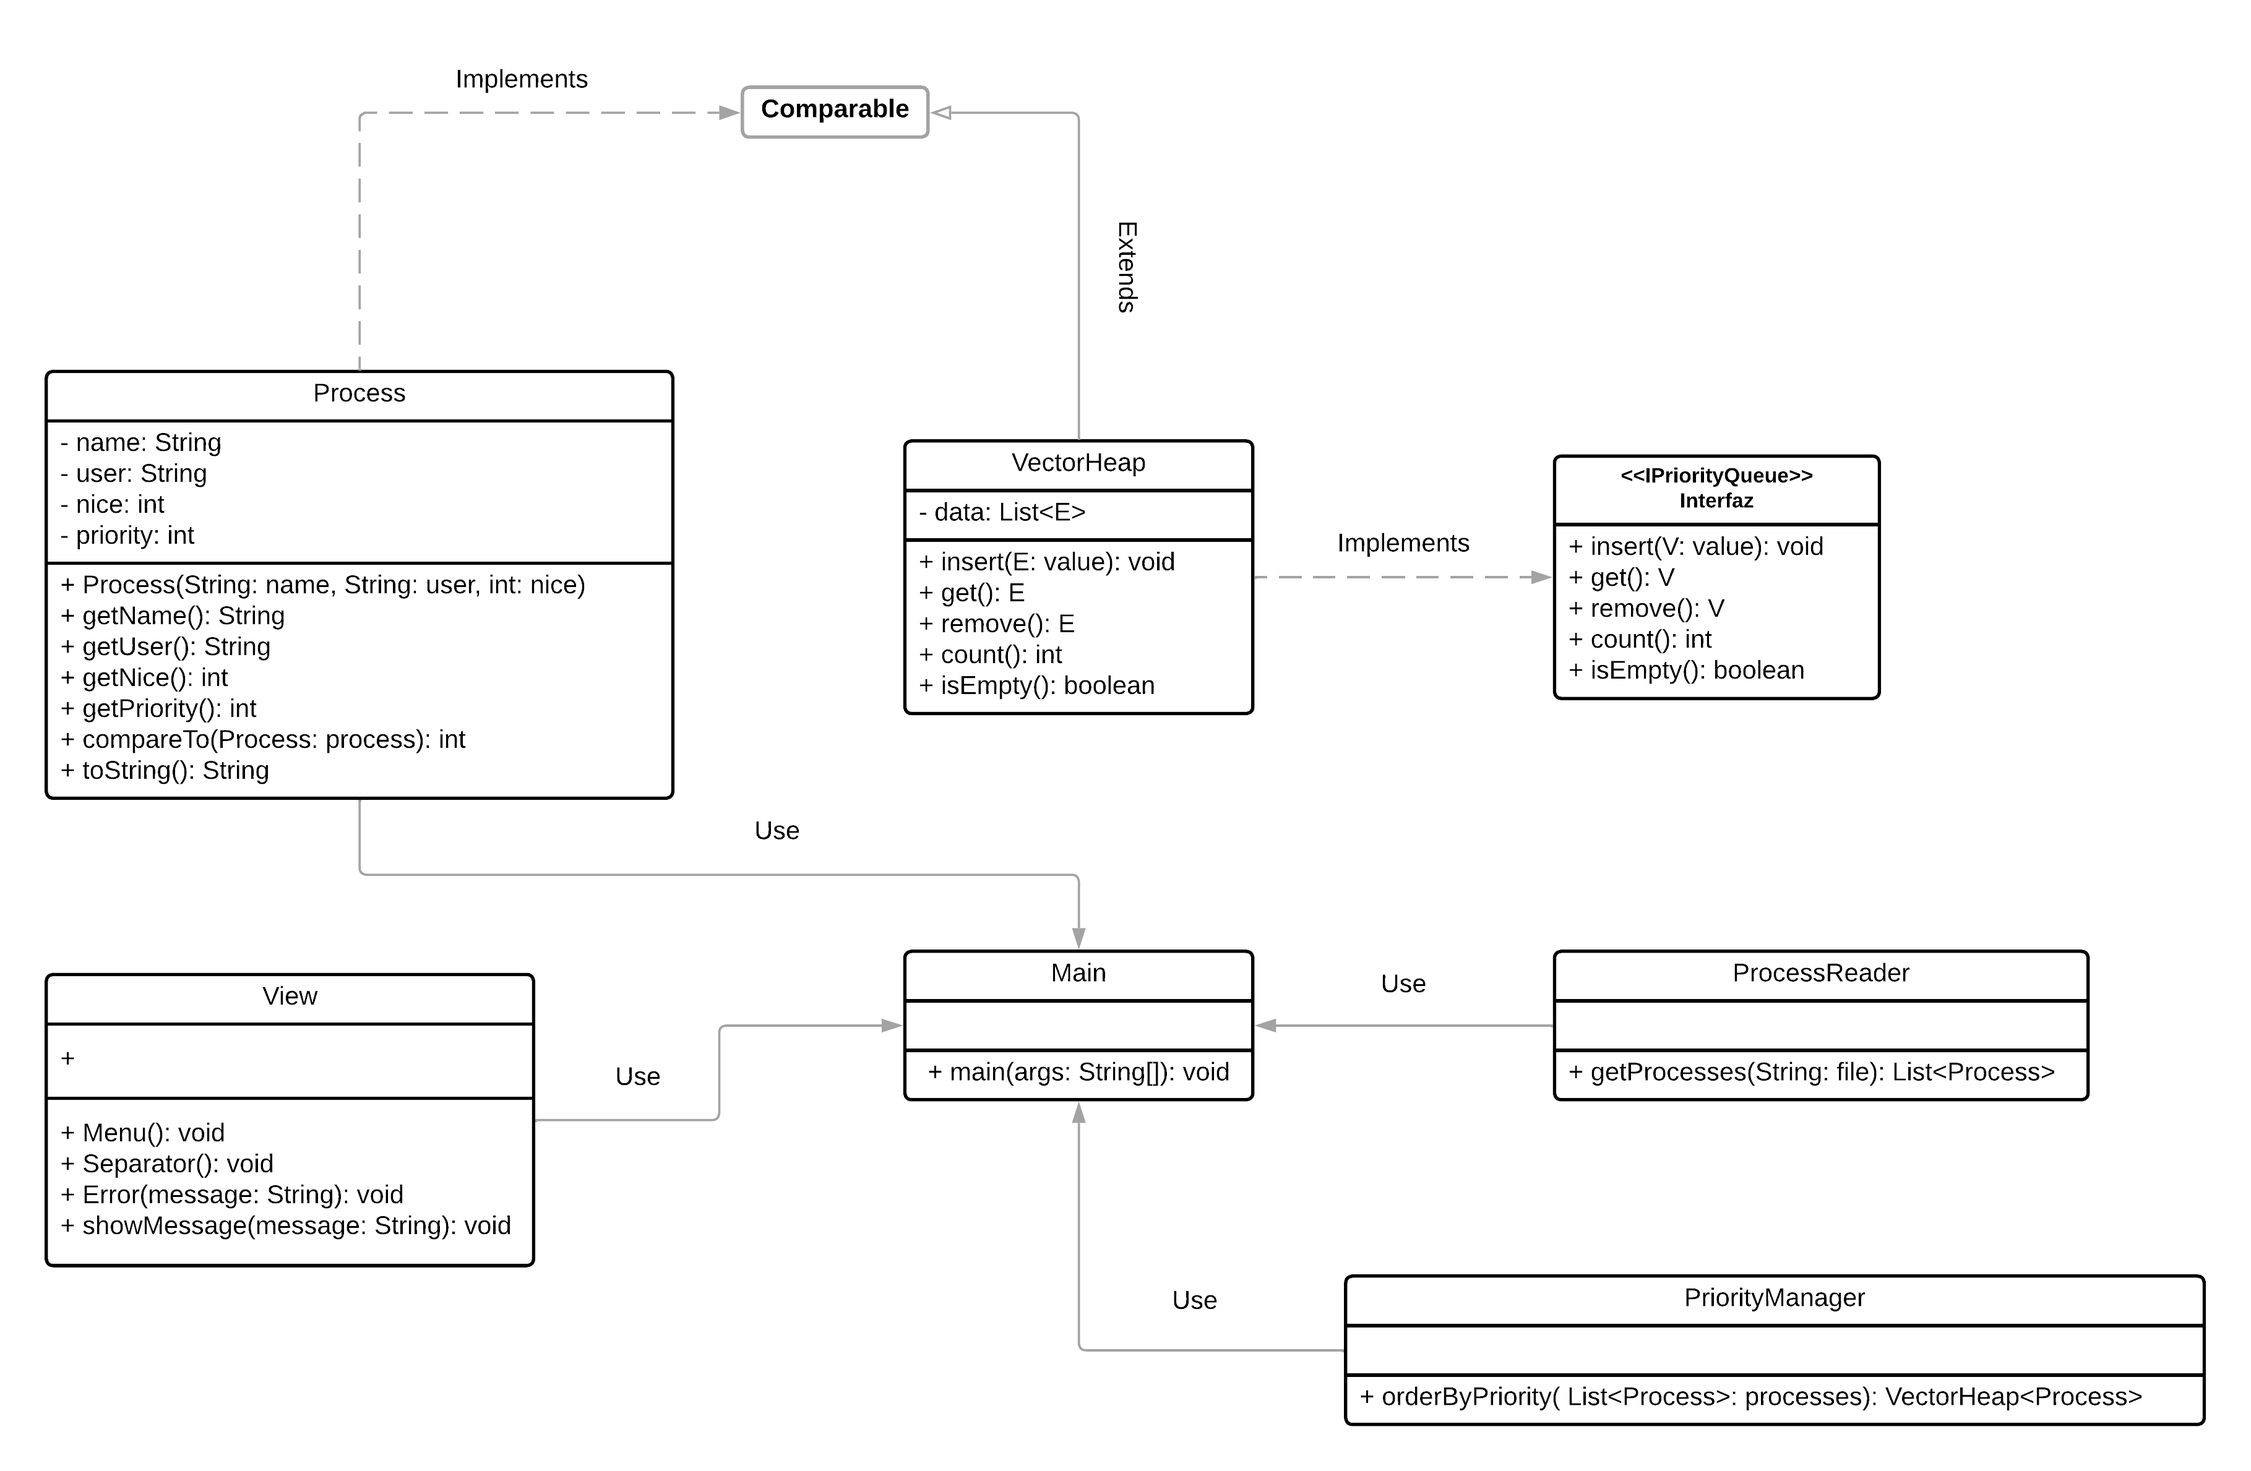
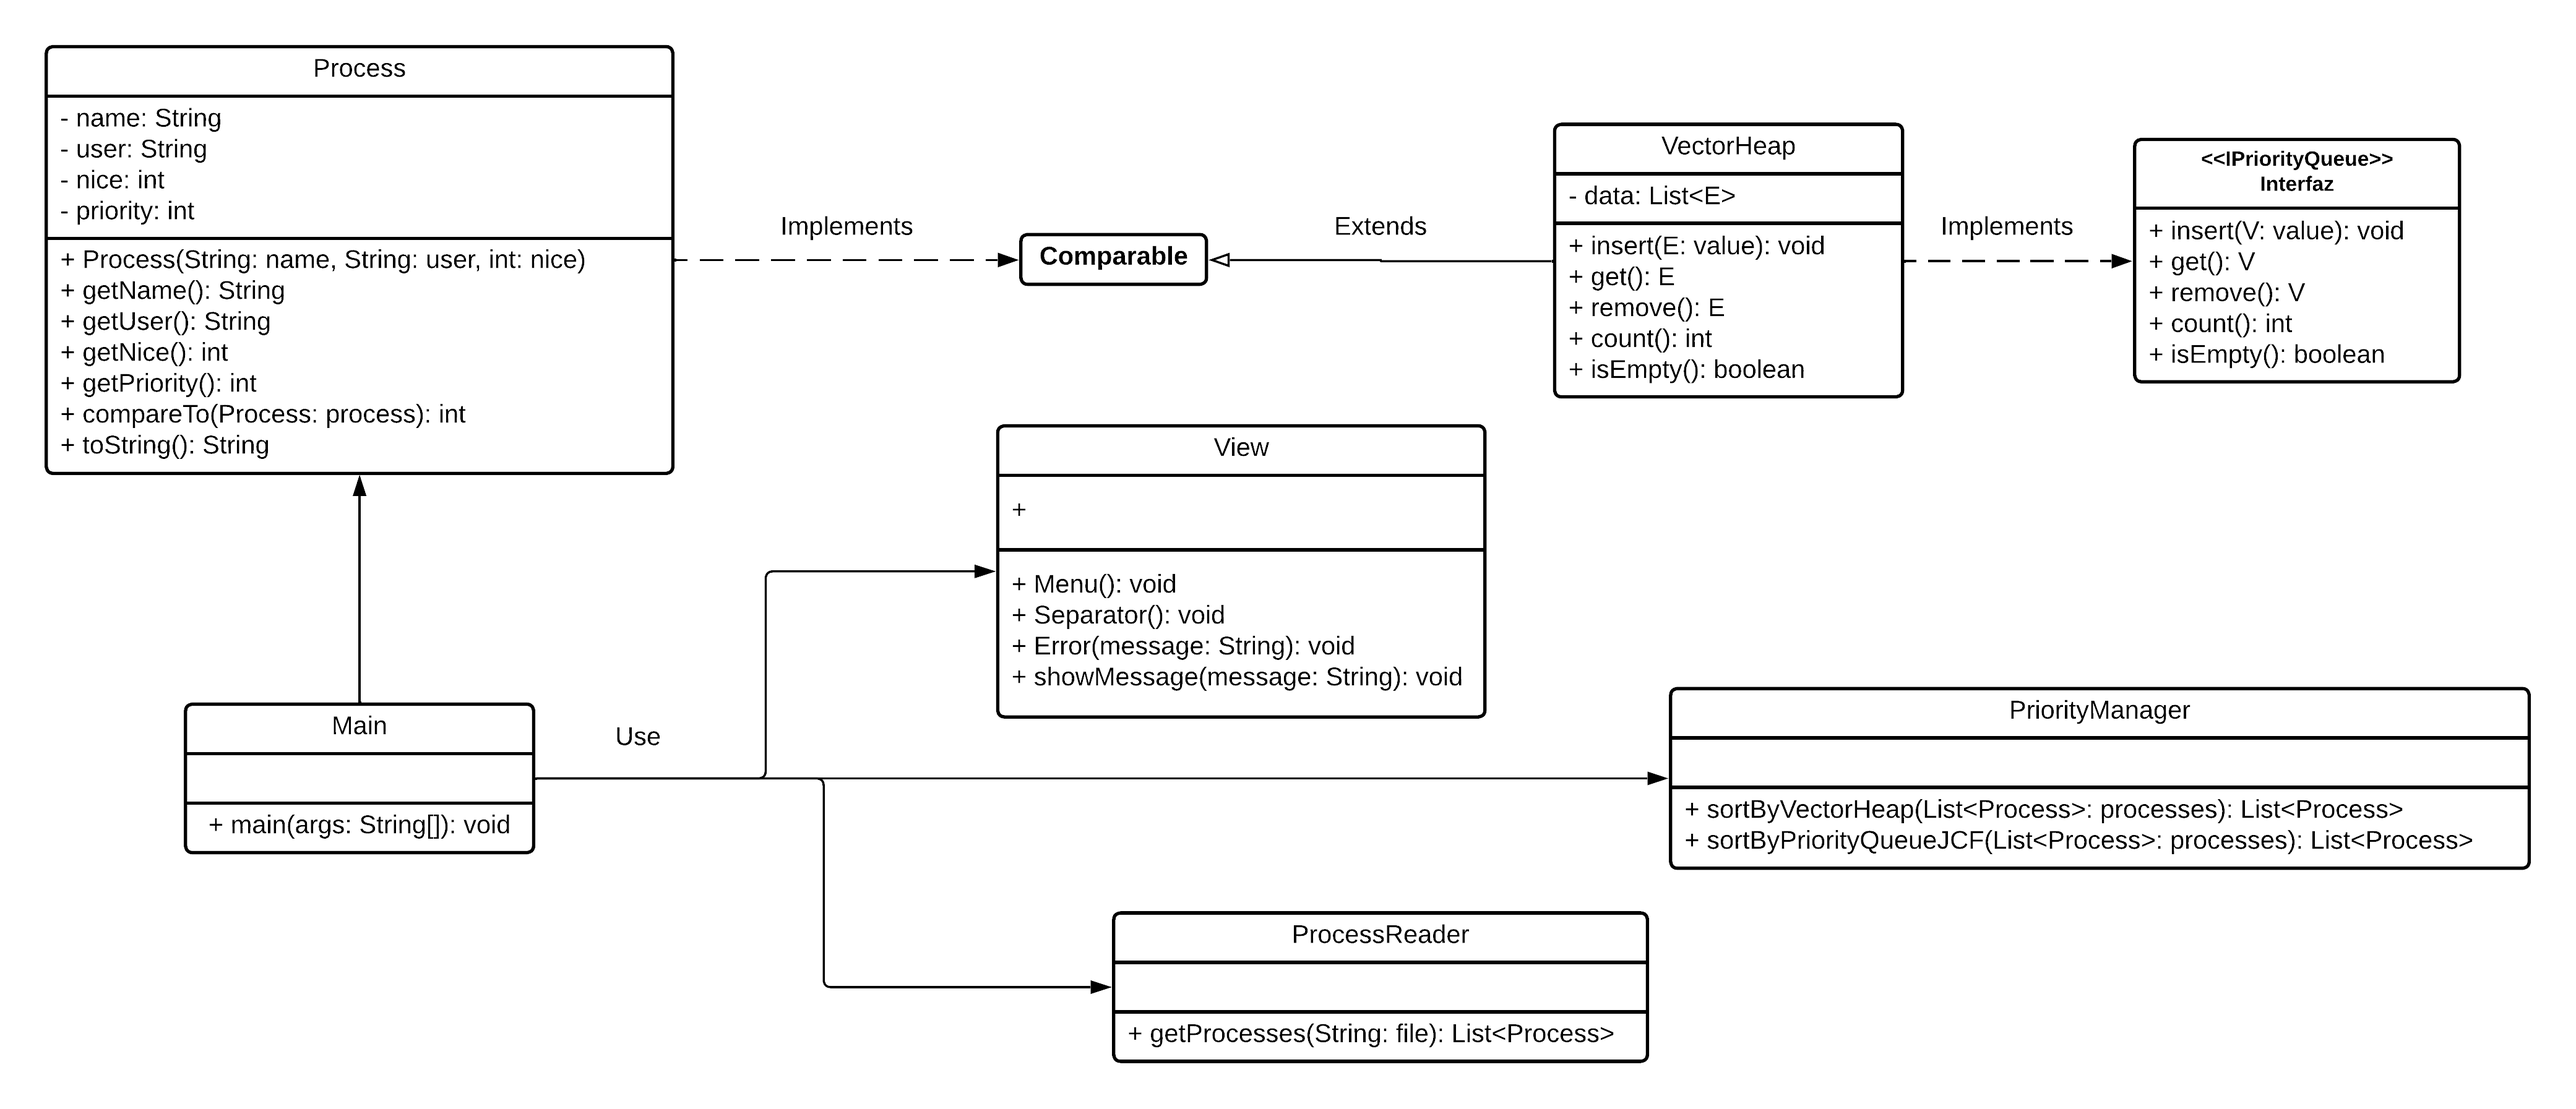
UML Update
Actualizacion de la version final del UML

diff --git a/ChichicasteLinux/src/ProcessReaderTest.java b/ChichicasteLinux/src/ProcessReaderTest.java
@@ -11,7 +11,7 @@ class ProcessReaderTest {
     @Test
     void testProcessesNotEmpty() throws IOException {
         // Leer procesos desde el archivo de prueba
-        List<Process> procesos = ProcessReader.leerProcesos("procesos.txt");
+        List<Process> procesos = ProcessReader.getProcesses("procesos.txt");
 
         // Verificar que la lista de procesos no esté vacía
         assertNotNull(procesos);
@@ -21,7 +21,7 @@ class ProcessReaderTest {
     @Test
     void testLeerProcesos1() throws IOException {
         // Leer procesos desde el archivo de prueba
-        List<Process> procesos = ProcessReader.leerProcesos("procesos.txt");
+        List<Process> procesos = ProcessReader.getProcesses("procesos.txt");
         // Verificar el contenido de los procesos
         assertEquals("vi", procesos.get(0).getName());
         assertEquals("juan02", procesos.get(0).getUser());
@@ -31,7 +31,7 @@ class ProcessReaderTest {
     @Test
     void testLeerProcesos2() throws IOException {
         // Leer procesos desde el archivo de prueba
-        List<Process> procesos = ProcessReader.leerProcesos("procesos.txt");
+        List<Process> procesos = ProcessReader.getProcesses("procesos.txt");
         assertEquals("ls", procesos.get(1).getName());
         assertEquals("maria30", procesos.get(1).getUser());
         assertEquals(-20, procesos.get(1).getNice());
@@ -40,7 +40,7 @@ class ProcessReaderTest {
     @Test
     void testLeerProcesos3() throws IOException {
         // Leer procesos desde el archivo de prueba
-        List<Process> procesos = ProcessReader.leerProcesos("procesos.txt");
+        List<Process> procesos = ProcessReader.getProcesses("procesos.txt");
         assertEquals("firefox", procesos.get(2).getName());
         assertEquals("rosa20", procesos.get(2).getUser());
         assertEquals(5, procesos.get(2).getNice());
@@ -48,7 +48,7 @@ class ProcessReaderTest {
     @Test
     void testLeerProcesos4() throws IOException {
         // Leer procesos desde el archivo de prueba
-        List<Process> procesos = ProcessReader.leerProcesos("procesos.txt");
+        List<Process> procesos = ProcessReader.getProcesses("procesos.txt");
         assertEquals("cat", procesos.get(3).getName());
         assertEquals("juan02", procesos.get(3).getUser());
         assertEquals(5, procesos.get(3).getNice());

diff --git a/ChichicasteLinux/src/PriorityManagerTest.java b/ChichicasteLinux/src/PriorityManagerTest.java
@@ -10,7 +10,7 @@ class PriorityManagerTest {
     @Test
     void testOrdenarPorVectorHeap() throws IOException {
         // Leer procesos desde el archivo de prueba
-        List<Process> procesos = ProcessReader.leerProcesos("procesos.txt");
+        List<Process> procesos = ProcessReader.getProcesses("procesos.txt");
 
         // Ordenar los procesos utilizando VectorHeap
         List<Process> procesosOrdenados = PriorityManager.sortByVectorHeap(procesos);
@@ -29,7 +29,7 @@ class PriorityManagerTest {
     @Test
     void testOrdenarPorJCF() throws IOException {
         // Leer procesos desde el archivo de prueba
-        List<Process> procesos = ProcessReader.leerProcesos("procesos.txt");
+        List<Process> procesos = ProcessReader.getProcesses("procesos.txt");
 
         // Ordenar los procesos utilizando VectorHeap
         List<Process> procesosOrdenados = PriorityManager.sortByPriorityQueueJCF(procesos);

diff --git a/ChichicasteLinux/src/ProcessReader.java b/ChichicasteLinux/src/ProcessReader.java
@@ -18,7 +18,7 @@ public class ProcessReader {
      * @return una lista de objetos Process obtenidos del archivo
      * @throws IOException si ocurre un error al leer el archivo
      */
-    public static List<Process> leerProcesos(String file) throws IOException {
+    public static List<Process> getProcesses(String file) throws IOException {
         List<Process> processes = new ArrayList<>();
         try (BufferedReader br = new BufferedReader(new FileReader(file))) {
             String linea;

diff --git a/ChichicasteLinux/src/Main.java b/ChichicasteLinux/src/Main.java
@@ -8,7 +8,7 @@ public class Main {
         List<Process> processes;
 
         try {
-            processes = ProcessReader.leerProcesos(archivo);
+            processes = ProcessReader.getProcesses(archivo);
         } catch (IOException e) {
             View.Error("No se pudo leer el archivo de procesos: " + e.getMessage());
             return;
